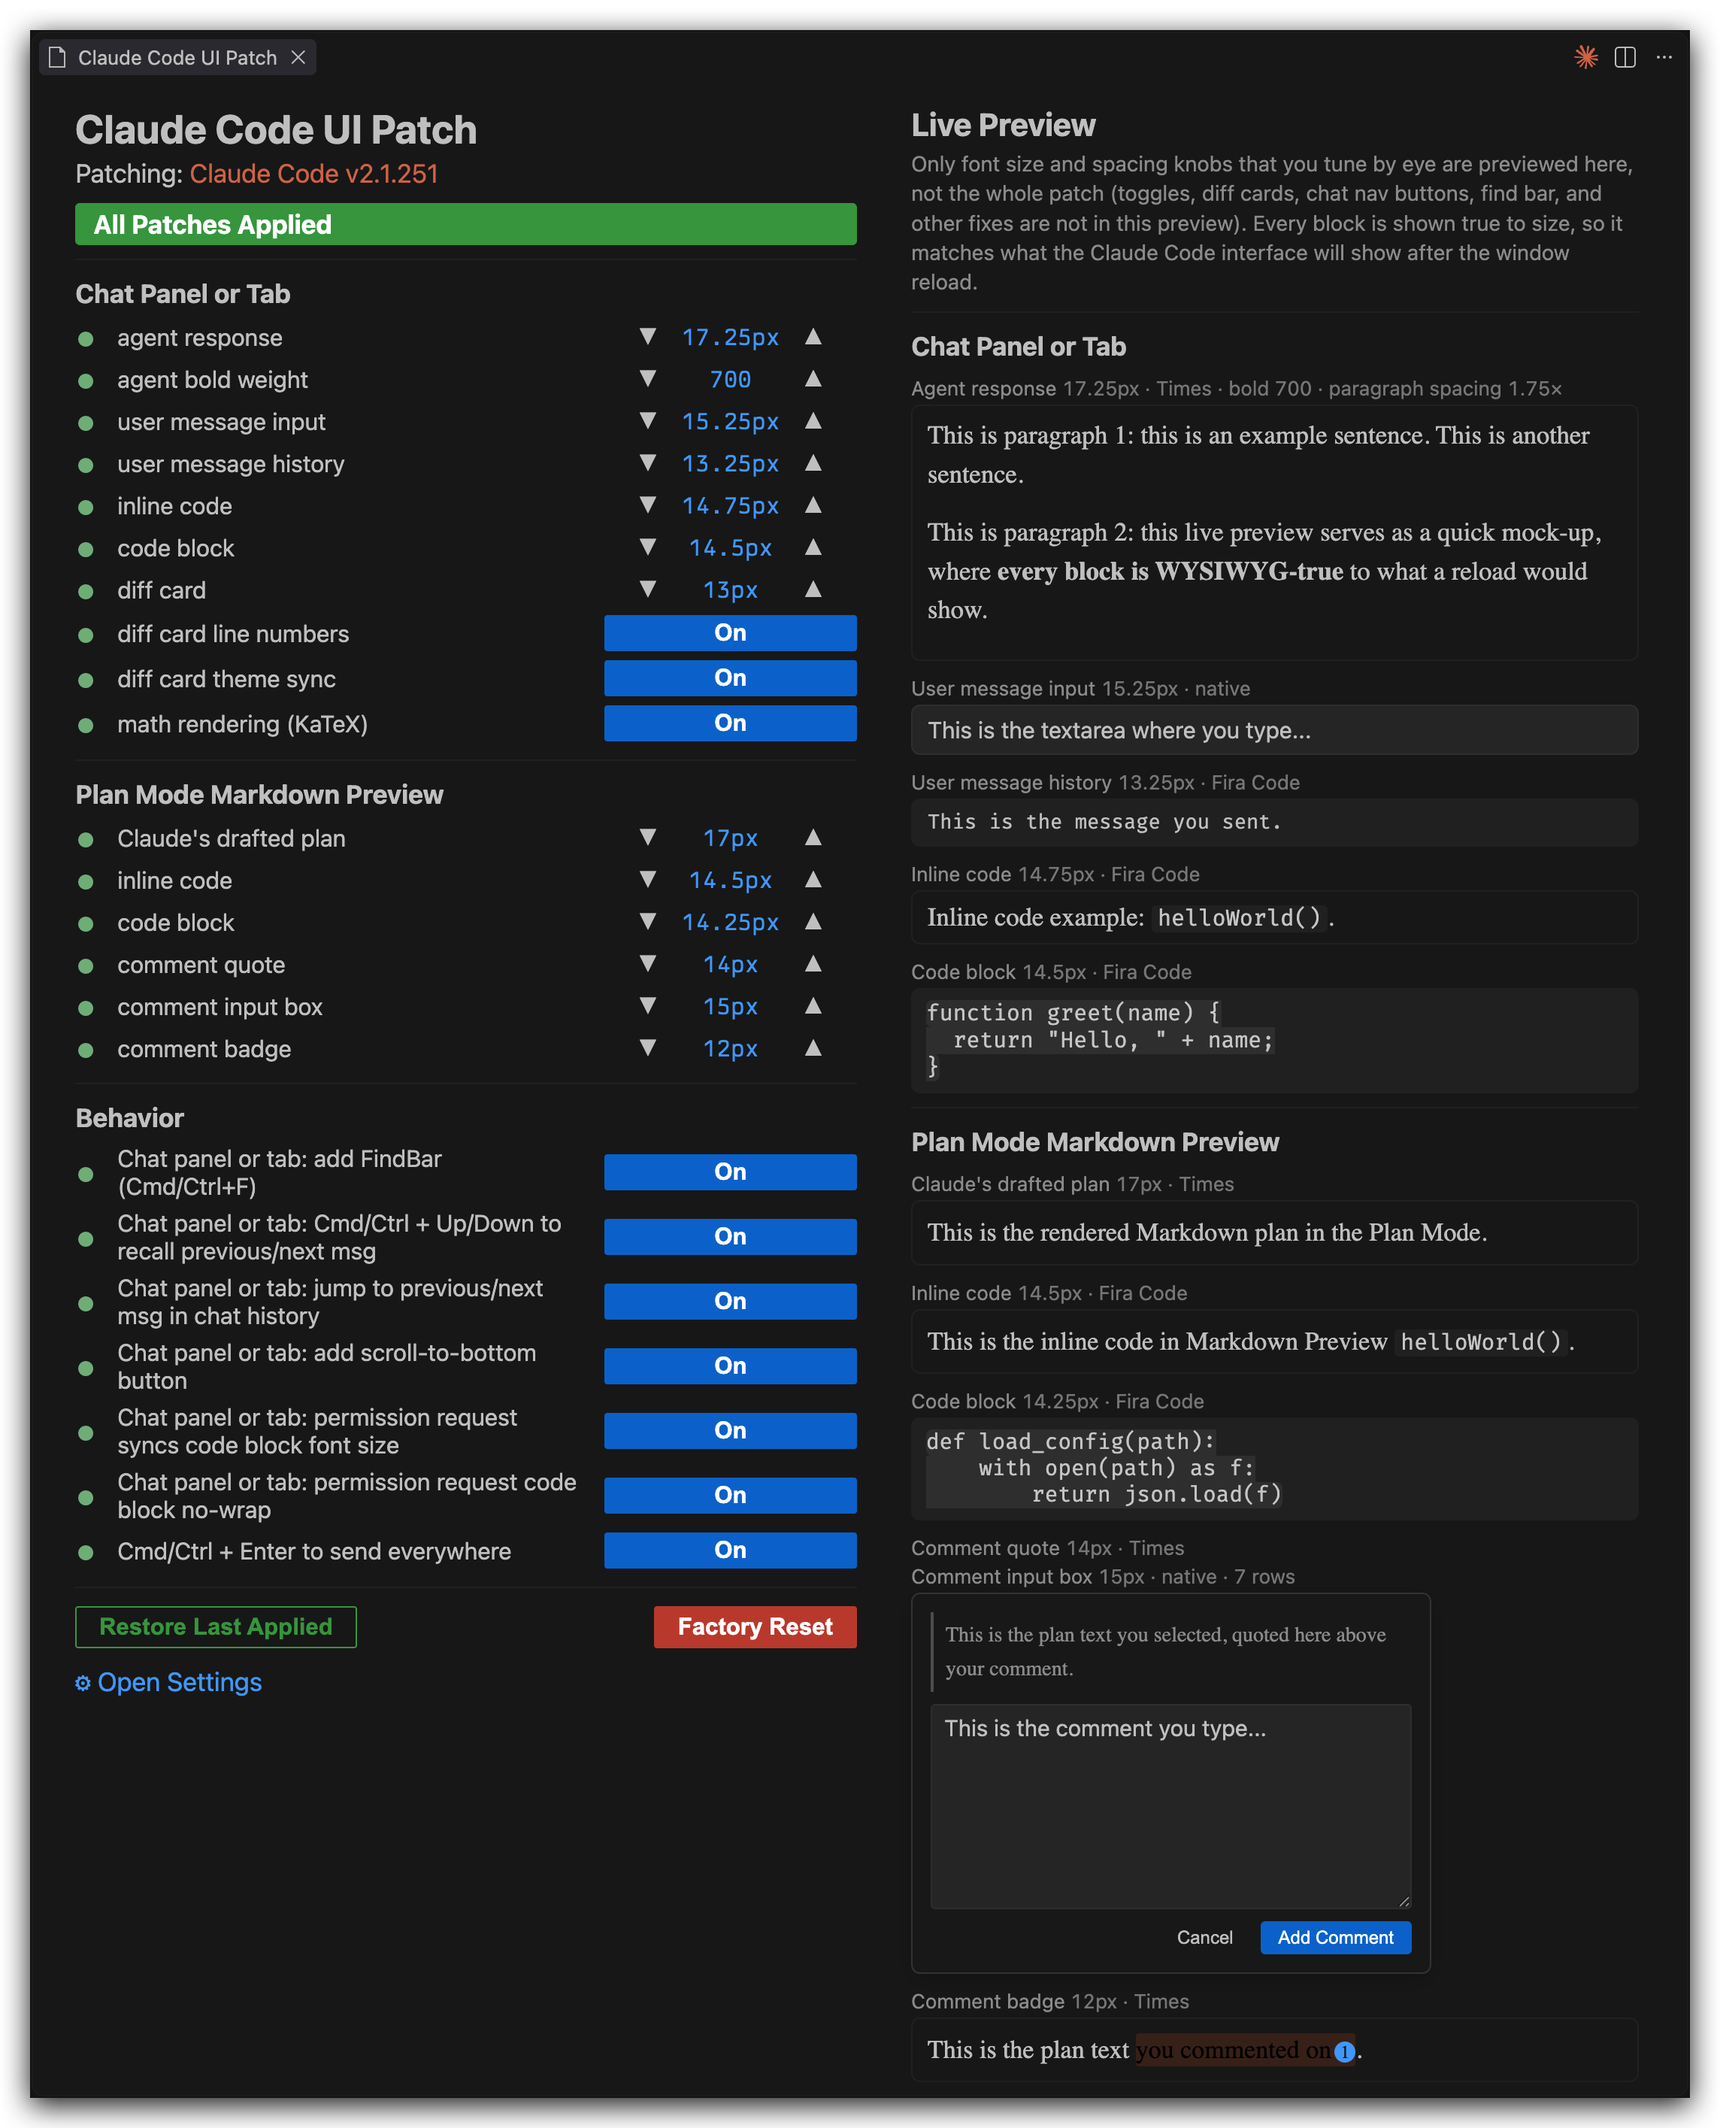
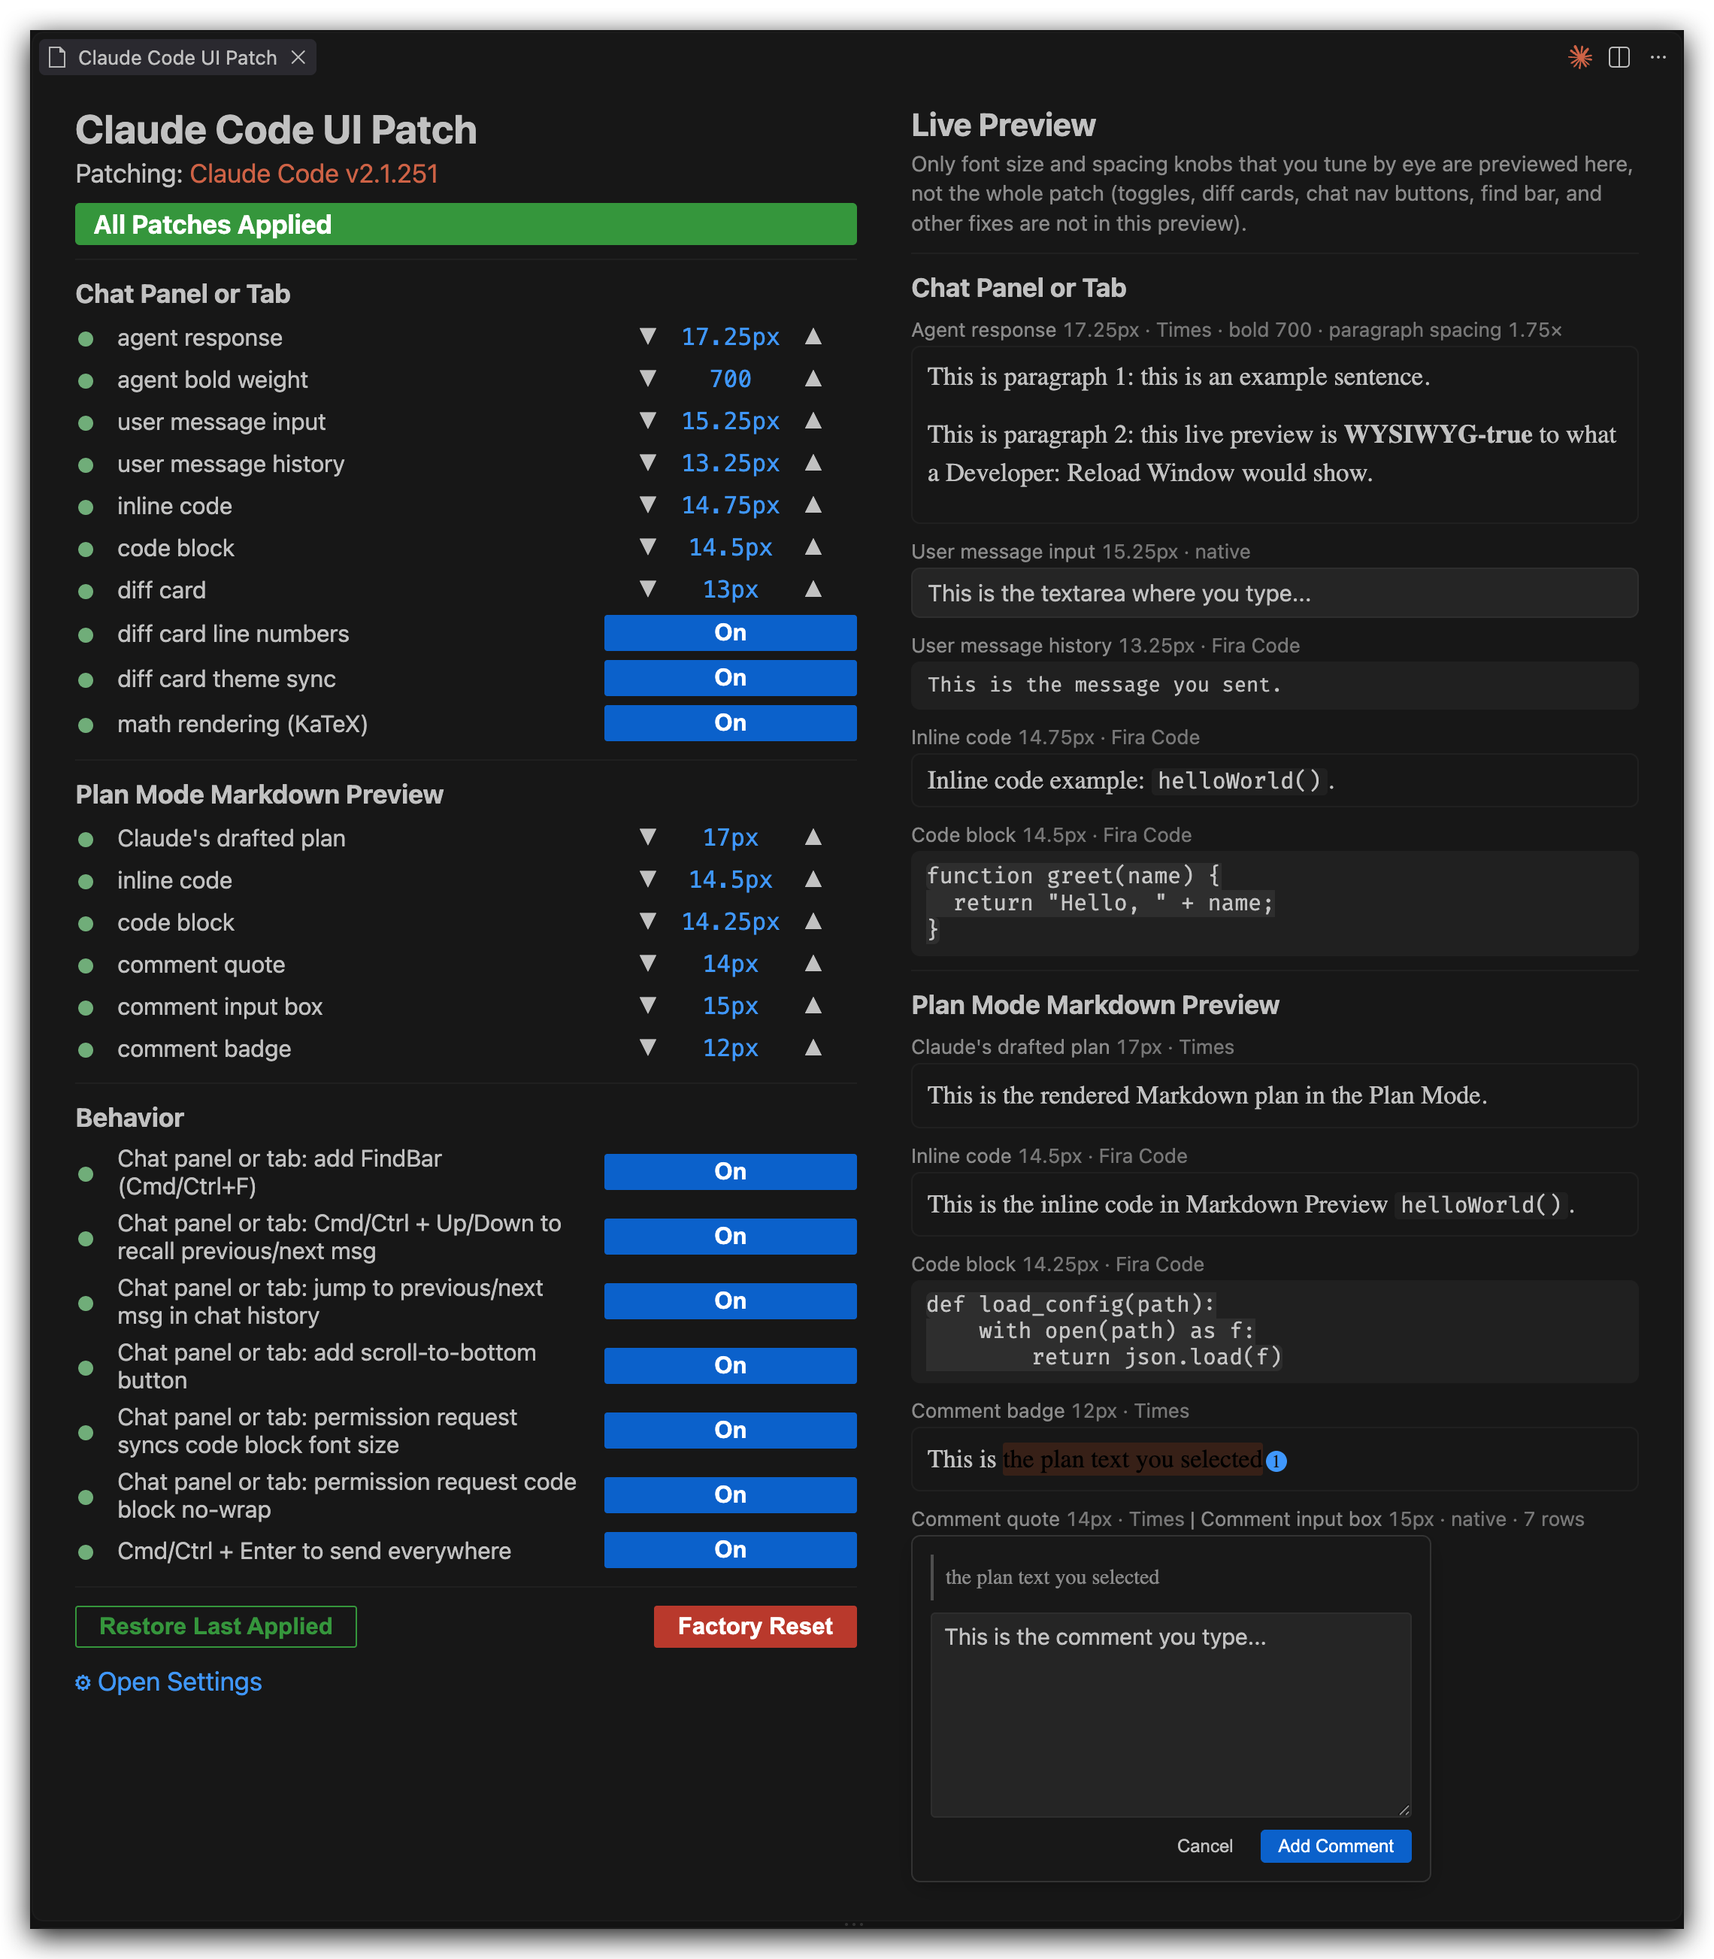
Update webview screenshot

diff --git a/src/panel.ts b/src/panel.ts
@@ -427,7 +427,7 @@ function previewHtml(hasChat: boolean, hasPlan: boolean): string {
     ? `      <hr class="divider">
       <h2>Chat Panel or Tab</h2>
       <div class="pv-cap">Agent response <span class="pv-cap-val" data-val="chatAgent"></span></div>
-      <div class="pv-bubble"><div class="pv-agent-text"><p>This is paragraph 1: this is an example sentence. This is another sentence.</p><p>This is paragraph 2: this live preview serves as a quick mock-up, where <strong>every block is WYSIWYG-true</strong> to what a reload would show.</p></div></div>
+      <div class="pv-bubble"><div class="pv-agent-text"><p>This is paragraph 1: this is an example sentence.</p><p>This is paragraph 2: this live preview is <strong>WYSIWYG-true</strong> to what a Developer: Reload Window would show.</p></div></div>
       <div class="pv-cap">User message input <span class="pv-cap-val" data-val="chatInput"></span></div>
       <div class="pv-inputbox"><div class="pv-input-text">This is the textarea where you type...</div></div>
       <div class="pv-cap">User message history <span class="pv-cap-val" data-val="chatUser"></span></div>
@@ -446,22 +446,21 @@ function previewHtml(hasChat: boolean, hasPlan: boolean): string {
       <div class="pv-bubble"><div class="pv-plan-inline-ctx">This is the inline code in Markdown Preview <code class="pv-inline pv-plan-inline">helloWorld()</code>.</div></div>
       <div class="pv-cap">Code block <span class="pv-cap-val" data-val="planCode"></span></div>
       <pre class="pv-pre pv-plan-code"><code>def load_config(path):\n    with open(path) as f:\n        return json.load(f)</code></pre>
-      <div class="pv-cap">Comment quote <span class="pv-cap-val" data-val="planQuote"></span></div>
-      <div class="pv-cap">Comment input box <span class="pv-cap-val" data-val="planComment"></span></div>
+      <div class="pv-cap">Comment badge <span class="pv-cap-val" data-val="planBadge"></span></div>
+      <div class="pv-bubble"><div class="pv-plan-text">This is <mark class="pv-mark">the plan text you selected</mark><span class="pv-badge">1</span></div></div>
+      <div class="pv-cap">Comment quote <span class="pv-cap-val" data-val="planQuote"></span> | Comment input box <span class="pv-cap-val" data-val="planComment"></span></div>
       <div class="pv-popup" aria-hidden="true">
-        <div class="pv-plan-quote">This is the plan text you selected, quoted here above your comment.</div>
+        <div class="pv-plan-quote">the plan text you selected</div>
         <textarea class="pv-plan-comment" readonly tabindex="-1">This is the comment you type...</textarea>
         <div class="pv-actions">
           <button class="pv-cancel" tabindex="-1">Cancel</button>
           <button class="pv-submit" tabindex="-1">Add Comment</button>
         </div>
-      </div>
-      <div class="pv-cap">Comment badge <span class="pv-cap-val" data-val="planBadge"></span></div>
-      <div class="pv-bubble"><div class="pv-plan-text">This is the plan text <mark class="pv-mark">you commented on<span class="pv-badge">1</span></mark>.</div></div>\n`
+      </div>\n`
     : "";
   return `    <div class="col col-preview">
       <h2 class="pv-title">Live Preview</h2>
-      <div class="pv-note">Only font size and spacing knobs that you tune by eye are previewed here, not the whole patch (toggles, diff cards, chat nav buttons, find bar, and other fixes are not in this preview). Every block is shown true to size, so it matches what the Claude Code interface will show after the window reload.</div>
+      <div class="pv-note">Only font size and spacing knobs that you tune by eye are previewed here, not the whole patch (toggles, diff cards, chat nav buttons, find bar, and other fixes are not in this preview).</div>
 ${chat}${plan}    </div>
 `;
 }
